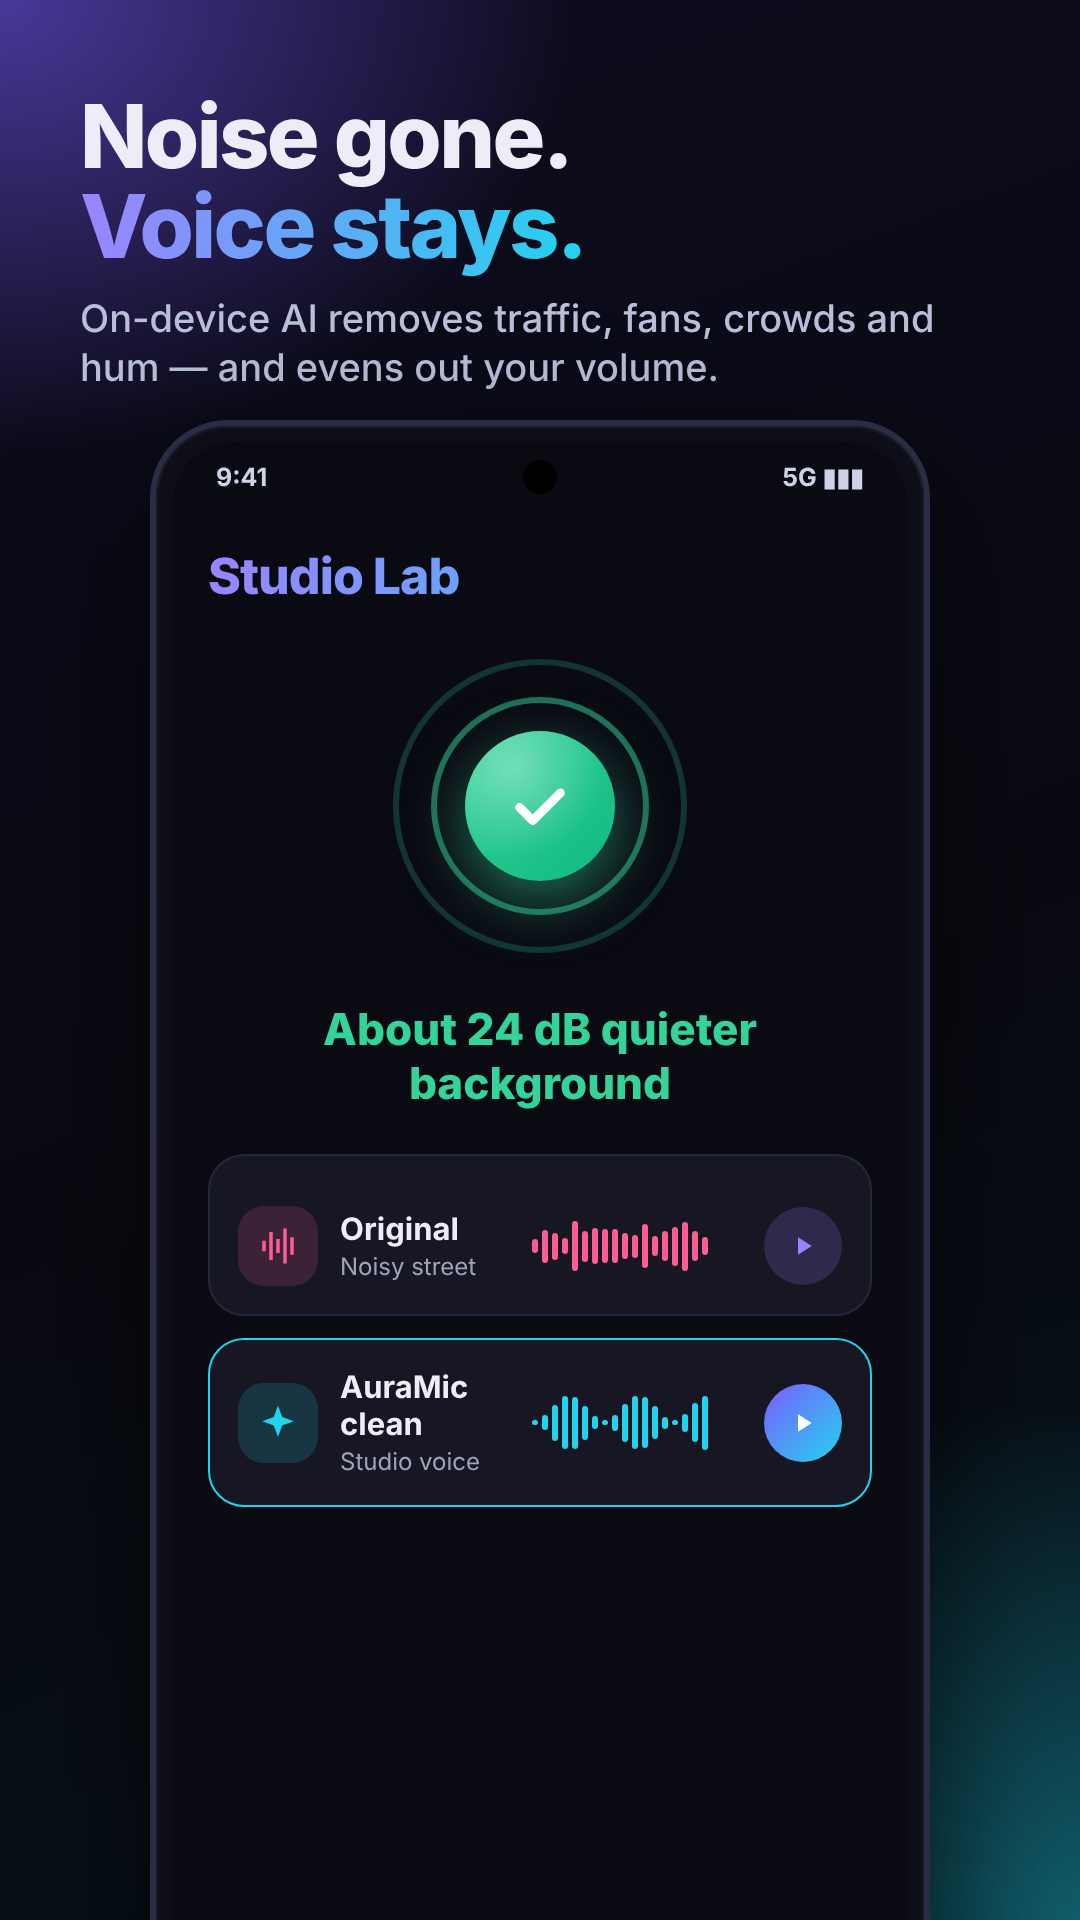
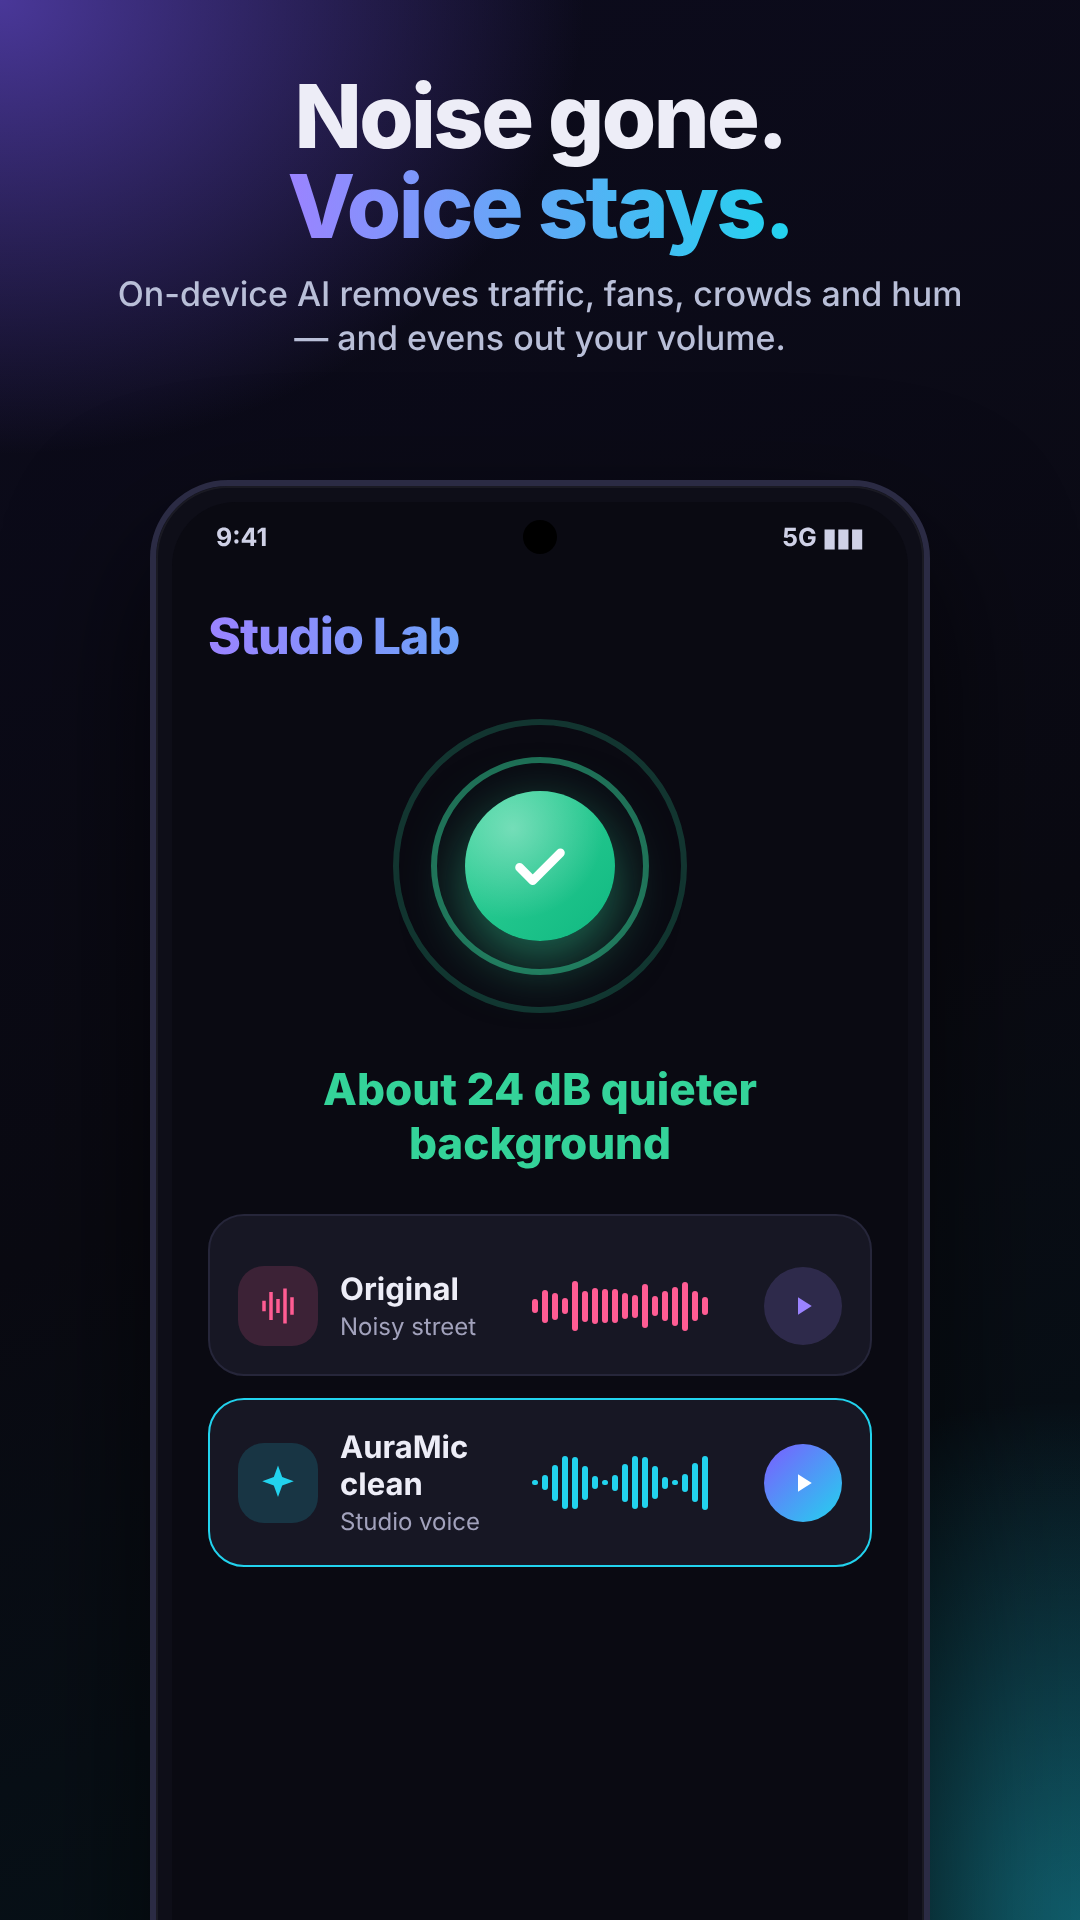
Play screenshots: centred captions with more space above the phone
Claude-Session: https://claude.ai/code/session_01HuFzeFbapjoqzK2GJRaigU

diff --git a/AuraMic/play_store_assets/screenshots/screens.html b/AuraMic/play_store_assets/screenshots/screens.html
@@ -16,11 +16,11 @@
      radial-gradient(900px 700px at 0% 0%, rgba(124,92,255,.55), transparent 65%),
      radial-gradient(900px 800px at 100% 100%, rgba(34,211,238,.38), transparent 65%),
      linear-gradient(160deg,#0C0B1D,#0A0A12 55%,#06141A)}
-  .cap{position:absolute;left:80px;right:80px;top:92px}
+  .cap{position:absolute;left:60px;right:60px;top:72px;text-align:center}
   .cap h2{font-size:88px;line-height:1.02;font-weight:800;letter-spacing:-2.6px}
   .cap h2 span{background:linear-gradient(90deg,#9B83FF,#22D3EE);-webkit-background-clip:text;background-clip:text;color:transparent}
-  .cap p{margin-top:22px;font-size:38px;line-height:1.3;color:#b9bfd8;font-weight:500;max-width:860px}
-  .phone{position:absolute;left:150px;top:420px;width:780px;height:1700px;border-radius:78px;background:#0E0E18;border:6px solid #2b2b44;
+  .cap p{margin:20px auto 0;font-size:34px;line-height:1.3;color:#b9bfd8;font-weight:500;max-width:880px}
+  .phone{position:absolute;left:150px;top:480px;width:780px;height:1700px;border-radius:78px;background:#0E0E18;border:6px solid #2b2b44;
     box-shadow:0 60px 140px rgba(0,0,0,.65),0 0 0 2px rgba(255,255,255,.05) inset}
   .screen{position:absolute;inset:16px;border-radius:64px;background:var(--bg);overflow:hidden}
   .sb{height:70px;display:flex;justify-content:space-between;align-items:center;padding:0 44px;font-size:25px;font-weight:700;color:#cfd1e6}
